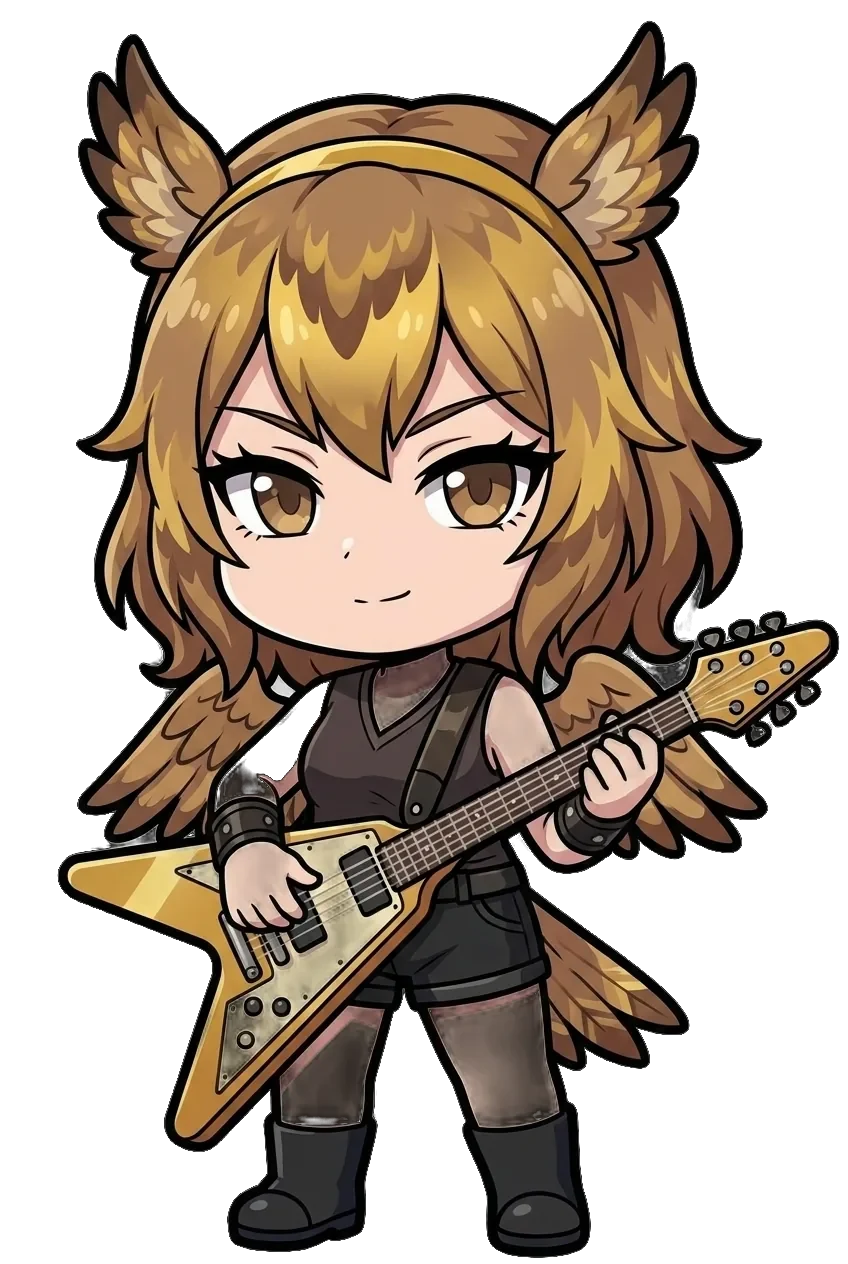
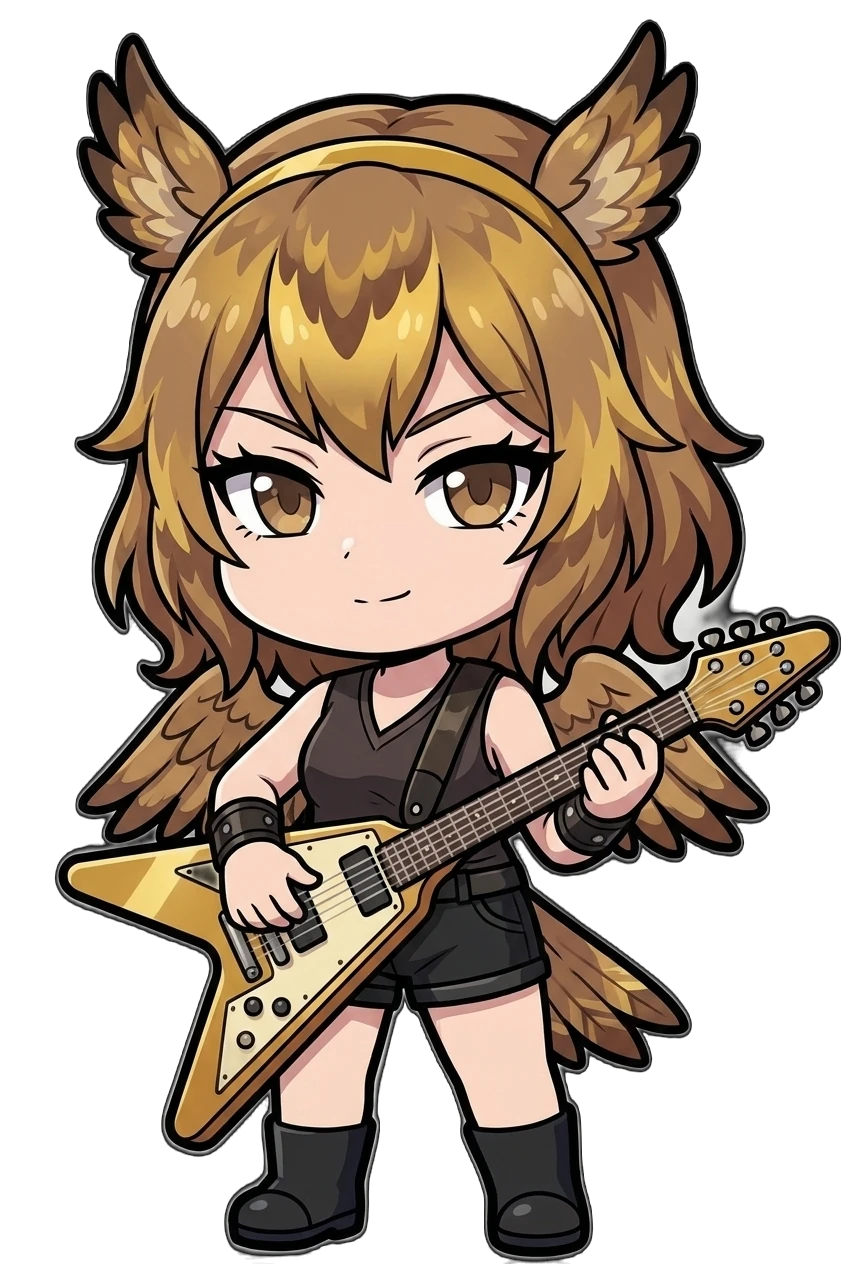
fix: re-cut base sprites from clean sources; distinct S rank color
Two fixes:

1. Base character sprites (the title/board art): solidifying the alpha last
   commit revealed that the original cutout→WebP pipeline had mangled the RGB
   in the low-alpha regions (lossy WebP discards color where alpha is low), so
   e.g. NAO's legs turned muddy brown once made opaque. The clean RGB still
   lives in the generated samples, so re-cut all 16 base-mood sprites from
   samples/*_kemonogirl.png: rembg for a fresh matte, keep the sample's RGB,
   solidify the alpha, same 848x1264 frame. Legs/arms/guitars are now solid
   with correct colors on any background (verified over the dark stage).

2. Live rank S and A shared the gold "great" color — give S its own
   holographic "legend" tone so the top rank reads distinctly.

Claude-Session: https://claude.ai/code/session_014vNDmaTumfdtaLn5zkKP3t

diff --git a/src/ui/render.ts b/src/ui/render.ts
@@ -658,7 +658,7 @@ function liveModal(state: GameState, ui: UiState): string {
 }
 
 function liveVerdict(sat: number): { rank: string; tone: string; line: string } {
-  if (sat >= 80) return { rank: "S", tone: "great", line: L("伝説のライブ！会場が一つになった！", "A legendary show — the whole room became one!") };
+  if (sat >= 80) return { rank: "S", tone: "legend", line: L("伝説のライブ！会場が一つになった！", "A legendary show — the whole room became one!") };
   if (sat >= 70) return { rank: "A", tone: "great", line: L("最高のステージ！確かな手応え！", "A killer set — real momentum!") };
   if (sat >= 60) return { rank: "B", tone: "good", line: L("良いライブだった。爪痕を残した。", "A good show. You left a mark.") };
   if (sat >= 50) return { rank: "C", tone: "good", line: L("悪くない。次につながる出来。", "Not bad — something to build on.") };

diff --git a/src/ui/styles.css b/src/ui/styles.css
@@ -499,6 +499,8 @@ body {
   font-size: 34px; font-weight: 900; font-style: italic; color: #fff;
   animation: rankPop 0.4s cubic-bezier(.2,1.2,.3,1.2) both;
 }
+/* S = legendary (holographic), distinct from A's gold. */
+.rank-legend { background: linear-gradient(135deg, #ff5fae 0%, #b061ff 45%, #33d6ff 100%); box-shadow: 0 0 26px rgba(176,97,255,0.65); color: #fff; text-shadow: 0 1px 4px rgba(0,0,0,0.45); }
 .rank-great { background: linear-gradient(160deg, var(--accent), #d99a00); box-shadow: 0 0 22px rgba(255,207,58,0.6); color: #201400; }
 .rank-good { background: linear-gradient(160deg, var(--blue), #1b6fd0); }
 .rank-poor { background: linear-gradient(160deg, #64748b, #3d4757); }
